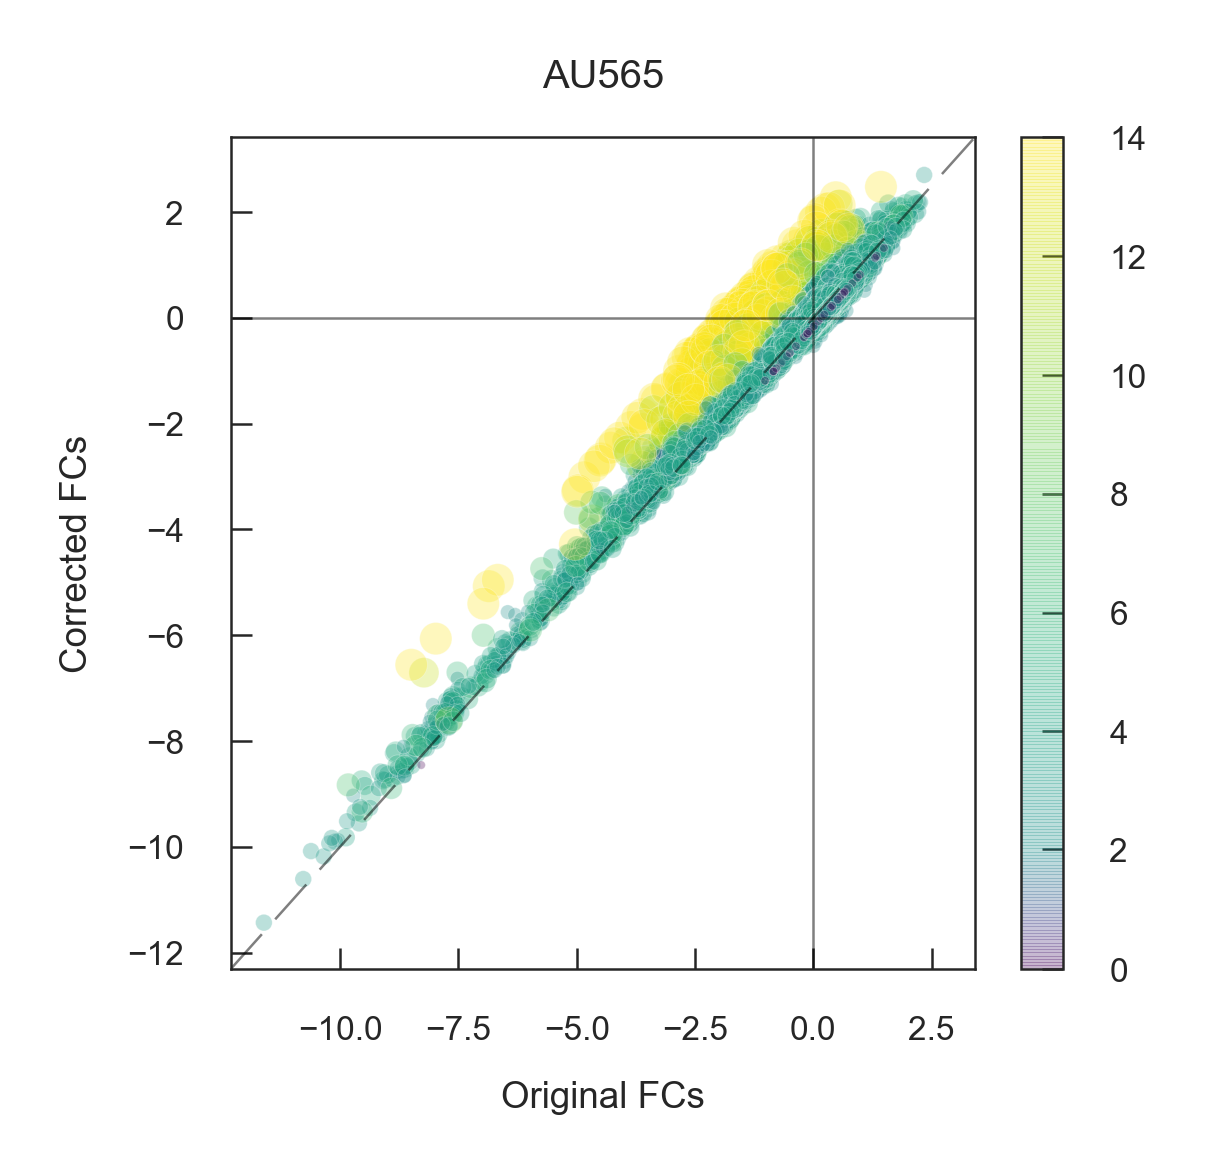
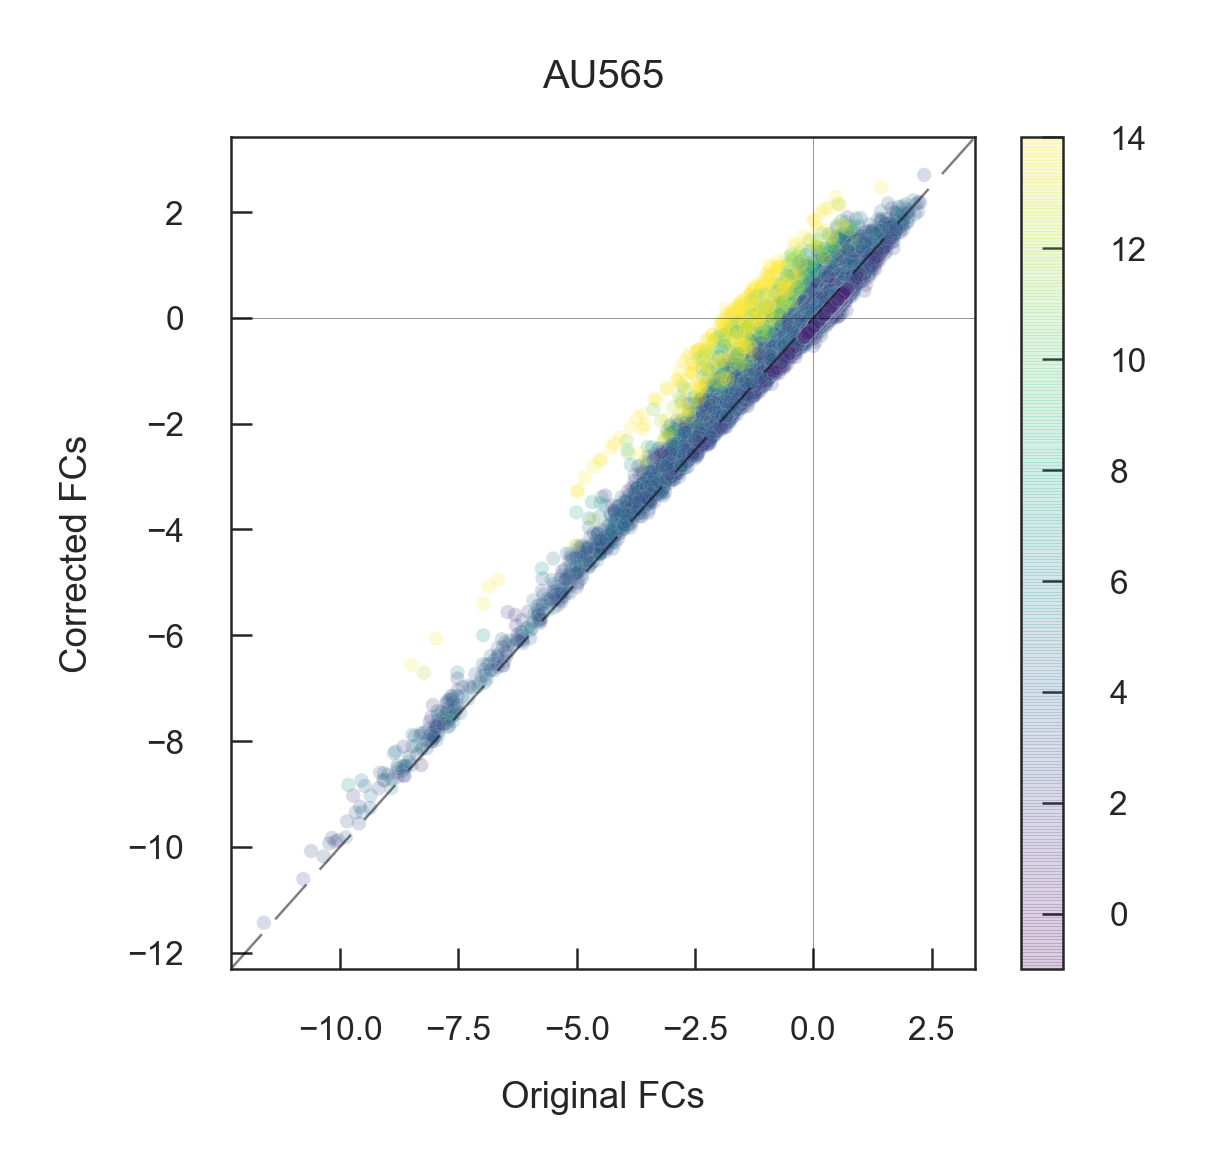
benchmark plots updated

diff --git a/src/benchmark/corrected_plots.py b/src/benchmark/corrected_plots.py
@@ -9,7 +9,6 @@ import matplotlib.pyplot as plt
 from datetime import datetime as dt
 from scipy.stats.stats import rankdata
 from sklearn.metrics.ranking import auc
-from benchmark import MidpointNormalize
 from matplotlib.gridspec import GridSpec
 
 
@@ -49,59 +48,33 @@ df = pd.concat([pd.read_csv(f, index_col=0) for f in sample_files if f.startswit
 
 # - Evaluate
 sns.set(style='ticks', context='paper', font_scale=0.75, palette='PuBu_r', rc={'axes.linewidth': .3, 'xtick.major.width': .3, 'ytick.major.width': .3, 'xtick.major.size': 2.5, 'ytick.major.size': 2.5, 'xtick.direction': 'in', 'ytick.direction': 'in'})
-gs, pos = GridSpec(1, 2, hspace=.3, wspace=.3), 0
-for t in ['essential', 'cnv']:
-    ax = plt.subplot(gs[pos])
+for f in ['logfc', 'logfc_norm']:
+    # Build data-frame
+    plot_df = df.sort_values(f).copy()
 
-    pass_flag = 0
+    # Rank fold-changes
+    x = rankdata(plot_df[f]) / plot_df.shape[0]
 
-    for f in ['logfc', 'logfc_norm']:
-        # Build data-frame
-        plot_df = df.sort_values(f).copy()
+    # Observed cumsum
+    y = plot_df['essential'].cumsum() / plot_df['essential'].sum()
 
-        if t == 'cnv':
-            plot_df[t] = plot_df[t].apply(lambda x: 1 if x >= 4 else 0)
+    # Plot
+    plt.plot(x, y, label='%s: %.2f' % (f, auc(x, y)), lw=1.)
 
-        # Check if enough events are present
-        if plot_df[t].sum() <= 1:
-            pass_flag += 1
-            continue
+    # Random
+    plt.plot((0, 1), (0, 1), 'k--', lw=.3, alpha=.5)
 
-        # Rank fold-changes
-        x = rankdata(plot_df[f]) / plot_df.shape[0]
+    # Misc
+    plt.xlim(0, 1)
+    plt.ylim(0, 1)
 
-        # Observed cumsum
-        y = plot_df[t].cumsum() / plot_df[t].sum()
+    plt.title('Essential: %s' % f.replace('_', ' '))
+    plt.xlabel('Ranked %s' % f)
+    plt.ylabel('Cumulative sum Essential')
 
-        # Plot
-        ax.plot(x, y, label='%s: %.2f' % (f, auc(x, y)), lw=1.)
+    plt.legend(loc=4)
 
-    # Check if this is any plot
-    if pass_flag != 2:
-        # Random
-        r = np.array([plot_df[t].sample(frac=1.).cumsum() for i in range(101)]) / plot_df[t].sum()
-        r_auc = [auc(x, i) for i in r]
-
-        y_r_min, y_r_max, y_r_median = r[np.argmin(r_auc)], r[np.argmax(r_auc)], r[np.where(r_auc == np.median(r_auc))[0][0]]
-
-        ax.plot(x, y_r_min, lw=.3, c='#969696')
-        ax.plot(x, y_r_median, lw=.5, c='#969696', ls='-', label='Random')
-        ax.plot(x, y_r_max, lw=.3, c='#969696')
-        ax.fill_between(x, y_r_min, y_r_max, facecolor='#f7f7f7', alpha=0.5)
-
-        # Misc
-        ax.set_xlim(0, 1)
-        ax.set_ylim(0, 1)
-
-        ax.set_title('%s: %s' % (t.capitalize(), f.replace('_', ' ')))
-        ax.set_xlabel('Ranked %s' % f)
-        ax.set_ylabel('Cumulative sum %s' % t)
-
-        ax.legend(loc=4)
-
-    pos += 1
-
-plt.gcf().set_size_inches(4.5, 2)
+plt.gcf().set_size_inches(2, 2)
 plt.savefig('reports/%s_eval_plot.png' % sample, bbox_inches='tight', dpi=600)
 plt.close('all')
 print('[%s] AROCs done.' % dt.now().strftime('%Y-%m-%d %H:%M:%S'))
@@ -112,7 +85,7 @@ cmap = plt.cm.get_cmap('viridis')
 
 sns.set(style='ticks', context='paper', font_scale=0.5, rc={'axes.linewidth': .3, 'xtick.major.width': .3, 'ytick.major.width': .3, 'xtick.major.size': 2.5, 'ytick.major.size': 2.5, 'xtick.direction': 'in', 'ytick.direction': 'in'})
 
-plt.scatter(df['logfc'], df['logfc_norm'], s=(df['cnv'] + 1), alpha=.3, edgecolor='w', lw=.1, c=df['cnv'], cmap=cmap, norm=MidpointNormalize(vmin=0, midpoint=2))
+plt.scatter(df['logfc'], df['logfc_norm'], s=3, alpha=.2, edgecolor='w', lw=0.05, c=df['cnv'], cmap=cmap)
 
 xlim, ylim = plt.xlim(), plt.ylim()
 xlim, ylim = np.min([xlim[0], ylim[0]]), np.max([xlim[1], ylim[1]])
@@ -120,8 +93,8 @@ plt.plot((xlim, ylim), (xlim, ylim), 'k--', lw=.3, alpha=.5)
 plt.xlim((xlim, ylim))
 plt.ylim((xlim, ylim))
 
-plt.axhline(0, lw=.3, c='black', alpha=.5)
-plt.axvline(0, lw=.3, c='black', alpha=.5)
+plt.axhline(0, lw=.1, c='black', alpha=.5)
+plt.axvline(0, lw=.1, c='black', alpha=.5)
 
 plt.xlabel('Original FCs')
 plt.ylabel('Corrected FCs')
@@ -165,30 +138,12 @@ plt.close('all')
 
 # - Chromossome plot
 sns.set(style='ticks', context='paper', font_scale=0.75, rc={'axes.linewidth': .3, 'xtick.major.width': .3, 'ytick.major.width': .3, 'xtick.major.size': 2.5, 'ytick.major.size': 2.5, 'xtick.direction': 'in', 'ytick.direction': 'in'})
-gs, pos = GridSpec(2, 1, hspace=.6, wspace=.6), 0
+gs, pos = GridSpec(len(set(df['CHRM'])), 1, hspace=.4, wspace=.1), 0
 
-for feature in ['logfc', 'logfc_norm']:
+for sample_chr in set(df['CHRM']):
+    # Define plot data-frame
     ax = plt.subplot(gs[pos])
-
-    # Plot guides
-    ax.scatter(df['STARTpos'], df[feature], s=2, marker='.', lw=0, c='#b1b1b1', alpha=.5)
-
-    # Plot sgRNAs mean
-    ax.scatter(df['STARTpos'], df['logfc_mean'], s=4, marker='.', lw=0, c='#2ecc71', alpha=.5)
-
-    # # Plot sgRNAs of highlighted genes
-    # for g, c in zip(*(['ERBB2'], sns.color_palette('OrRd_r', 2))):
-    #     xs, ys = zip(*df.loc[df['GENES'] == g, ['STARTpos', feature]].values)
-    #     ax.scatter(xs, ys, s=2, marker='x', lw=0.5, c=c, alpha=.9, label=g)
-
-    # Plot CRISPR segments
-    if pos == 0:
-        for s, e, fc in crispr_seg.loc[(crispr_seg['sample'] == sample) & (crispr_seg['chrom'] == sample_chr), ['loc.start', 'loc.end', 'seg.mean']].values:
-            ax.plot([s, e], [fc, fc], lw=.3, c='#ff511d', alpha=.5)
-
-    # Plot CNV segments
-    for s, e, c in cnv_seg.loc[(cnv_seg['cellLine'] == sample) & (cnv_seg['chr'] == sample_chr), ['startpos', 'endpos', 'totalCN']].values:
-        ax.plot([s, e], [c, c], lw=.3, c='#3498db', alpha=.5)
+    plot_df = df[df['CHRM'] == sample_chr]
 
     # Cytobads
     for i in cytobands[cytobands['chr'] == 'chr%s' % sample_chr].index:
@@ -201,23 +156,33 @@ for feature in ['logfc', 'logfc_norm']:
         elif not i % 2:
             ax.axvspan(s, e, alpha=0.2, facecolor='#b1b1b1')
 
+    # Plot guides
+    ax.scatter(plot_df['STARTpos'], plot_df['logfc'], s=2, marker='.', lw=0, c='#b1b1b1', alpha=.5)
+
+    # Plot CRISPR segments
+    for s, e, fc in crispr_seg.loc[(crispr_seg['sample'] == sample) & (crispr_seg['chrom'] == str(sample_chr)), ['loc.start', 'loc.end', 'seg.mean']].values:
+        ax.plot([s, e], [fc, fc], lw=.3, c='#ff511d', alpha=.9)
+
+    # Plot CNV segments
+    for s, e, c in cnv_seg.loc[(cnv_seg['cellLine'] == sample) & (cnv_seg['chr'] == str(sample_chr)), ['startpos', 'endpos', 'totalCN']].values:
+        ax.plot([s, e], [c, c], lw=.3, c='#3498db', alpha=.9)
+
+    # Plot sgRNAs mean
+    ax.scatter(plot_df['STARTpos'], plot_df['logfc_mean'], s=4, marker='.', lw=0, c='#2ecc71', alpha=.9)
+
     # Misc
     ax.axhline(0, lw=.3, ls='-', color='black')
 
-    ax.set_xlim(df['STARTpos'].min(), df['STARTpos'].max())
+    # Labels and dim
+    ax.set_ylabel('chr%s' % sample_chr)
+    ax.set_xlim(0, plot_df['STARTpos'].max())
 
-    ax.set_xlabel('Chromosome position (chr %s)' % sample_chr)
-    ax.set_ylabel('sgRNA (%s)' % feature)
-
-    plt.suptitle('%s' % gp.kernel_)
-    # plt.suptitle('Variance explained: %s\nPath length:%.4E; Scale:%.4E' % (re.sub(' +', '=', cov_var.to_string(float_format='%.2f')).replace('\n', '; '), cov_dist.length, cov_dist.scale))
+    if pos == 0:
+        ax.set_title(sample)
 
     pos += 1
 
-plt.legend(loc='center left', bbox_to_anchor=(1, 0.5))
-# plt.legend(loc=3)
-
-plt.gcf().set_size_inches(4, 2.5)
-plt.savefig('reports/%s_%s_chromosome_plot.png' % (sample, sample_chr), bbox_inches='tight', dpi=600)
+plt.gcf().set_size_inches(3, 20)
+plt.savefig('reports/%s_chromosome_plot.png' % sample, bbox_inches='tight', dpi=600)
 plt.close('all')
 print('[%s] Chromossome plot done.' % dt.now().strftime('%Y-%m-%d %H:%M:%S'))

diff --git a/src/sgrnas_pairwise_dist_bsub.py b/src/sgrnas_pairwise_dist_bsub.py
@@ -12,8 +12,8 @@ sgrna_lib = pd.read_csv('data/gdsc/crispr/KY_Library_v1.0.csv')
 memory, queque, cores = 32000, 'normal', 12
 
 # Submit a single job per chromossome per sample
-# sample, sample_chr = 'AU565', '17'
-for sample in ['AU565']:
+# sample, sample_chr = 'HT-29', '17'
+for sample in ['HT-29', 'AU565']:
 	for sample_chr in set(sgrna_lib['CHRM']):
 		jname = 'crispy_%s_%s' % (sample, sample_chr)
 
